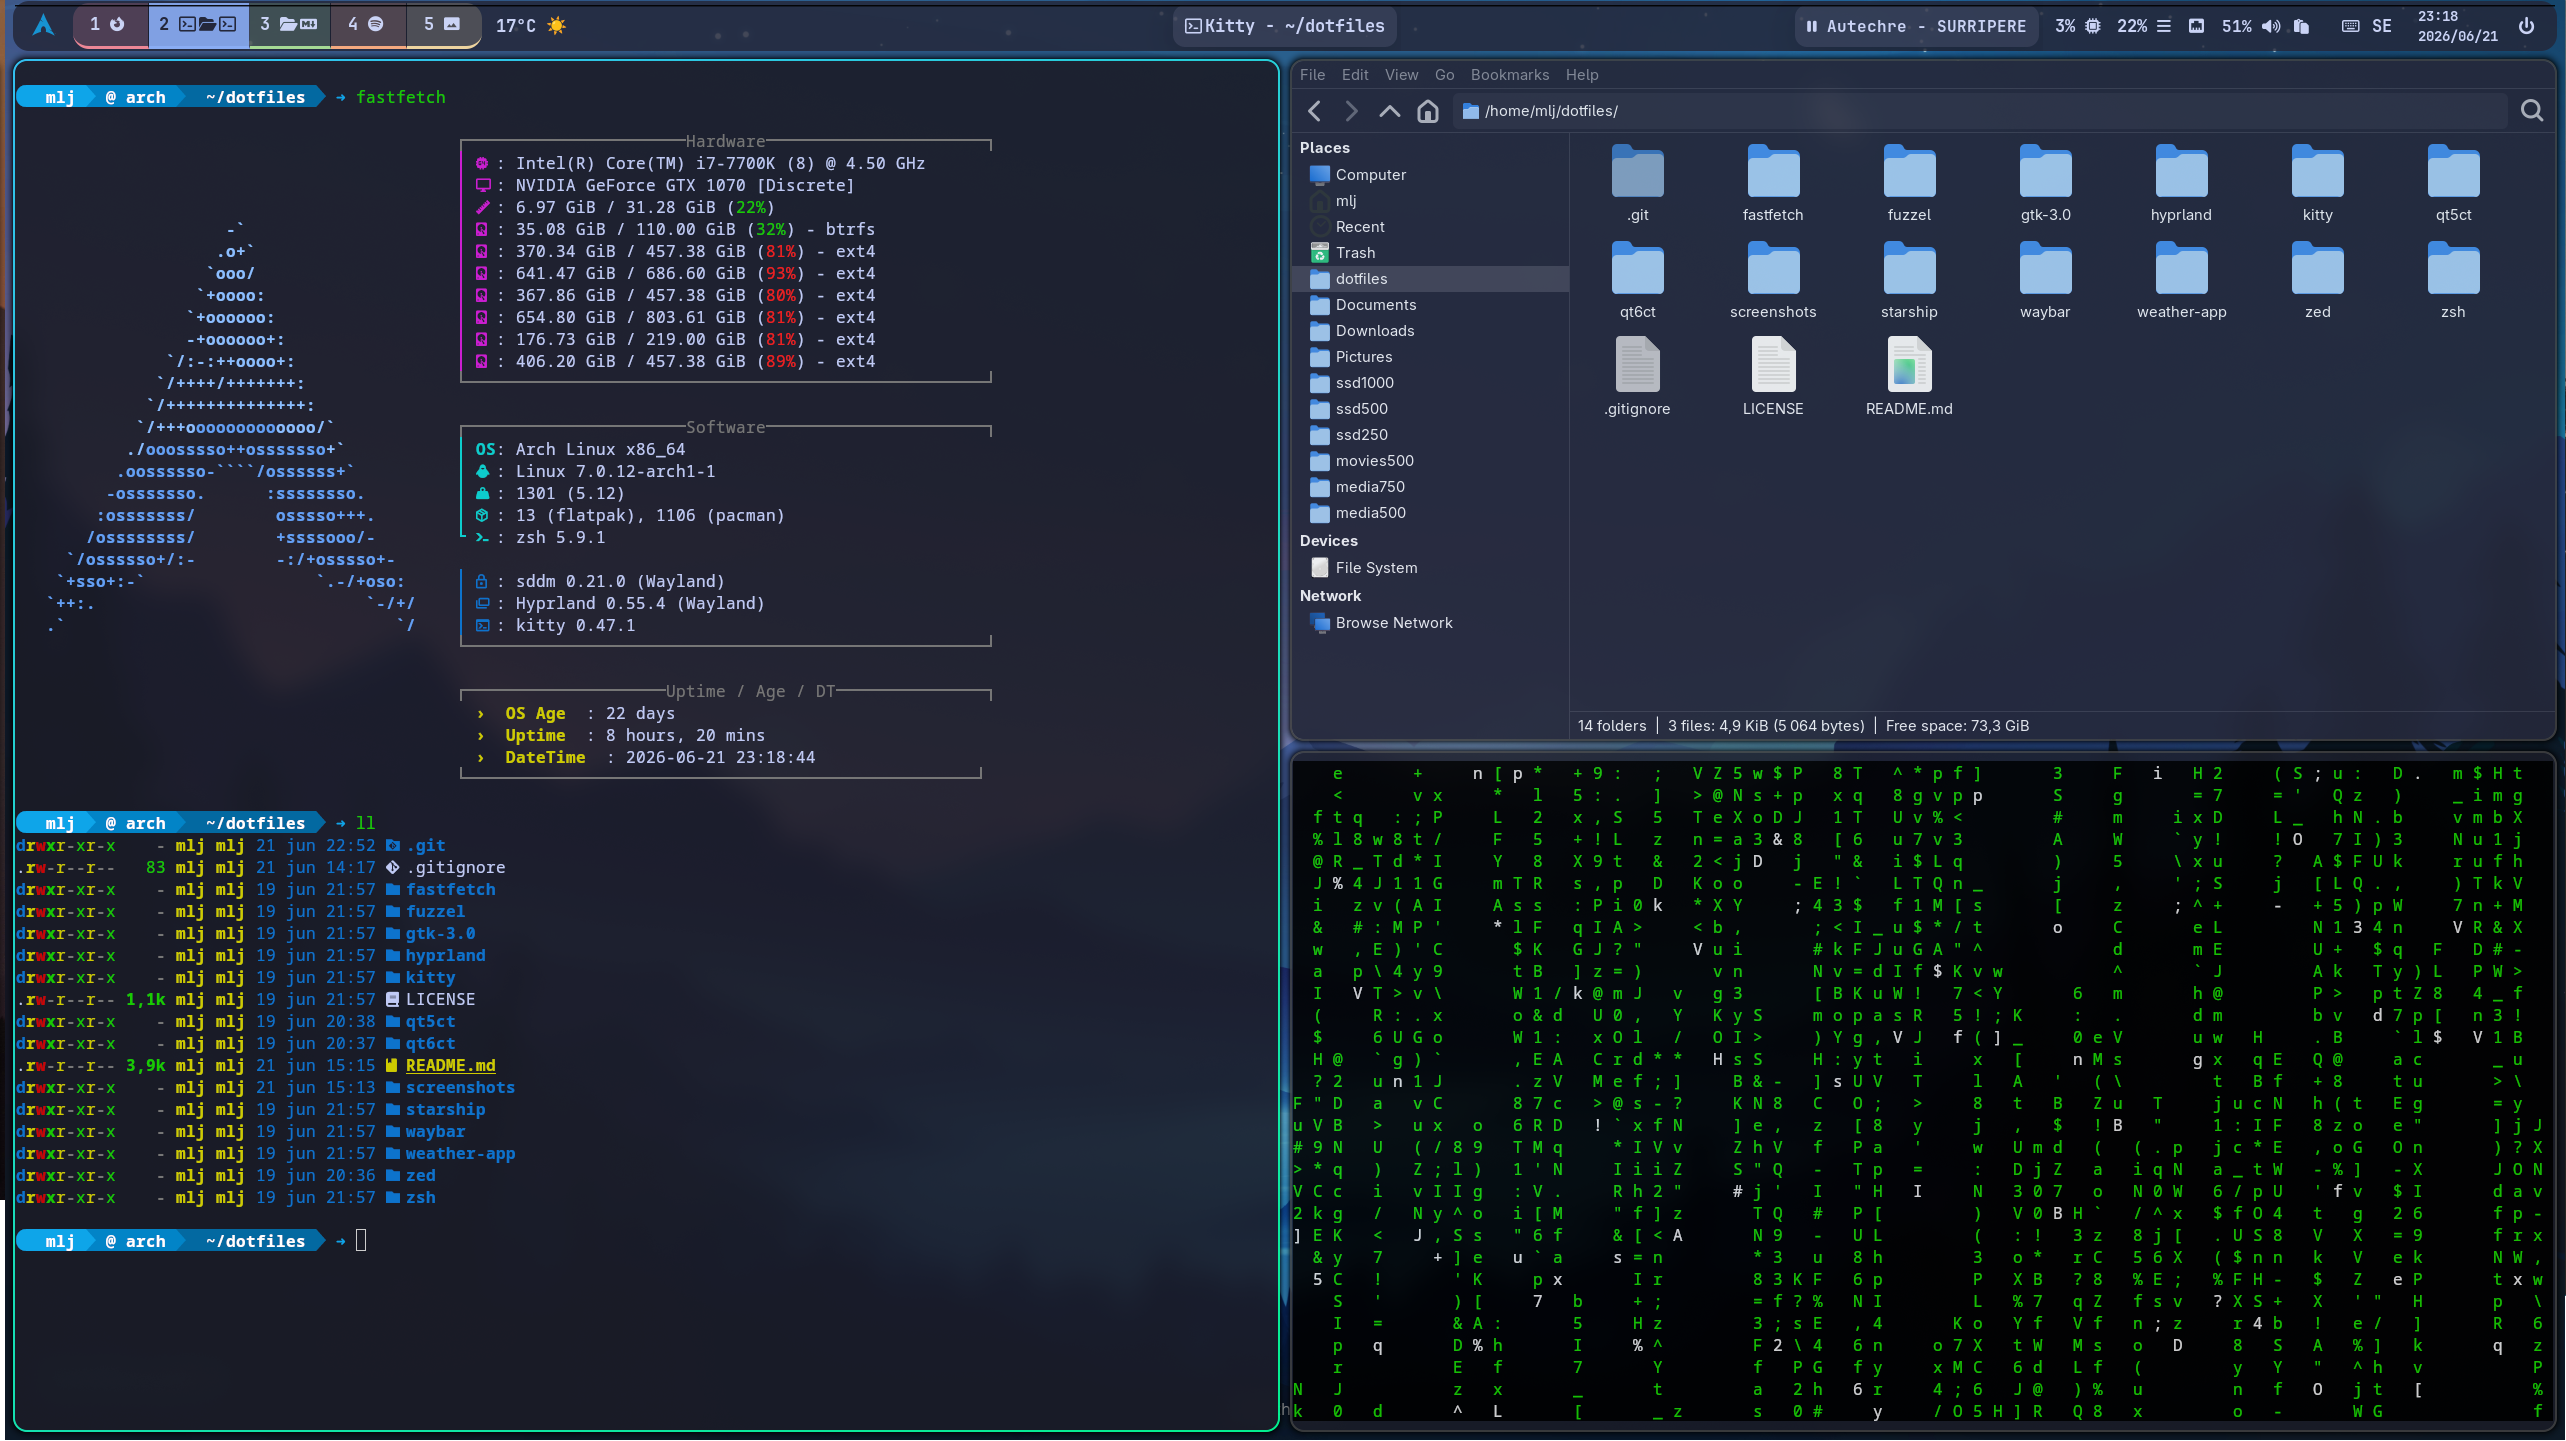
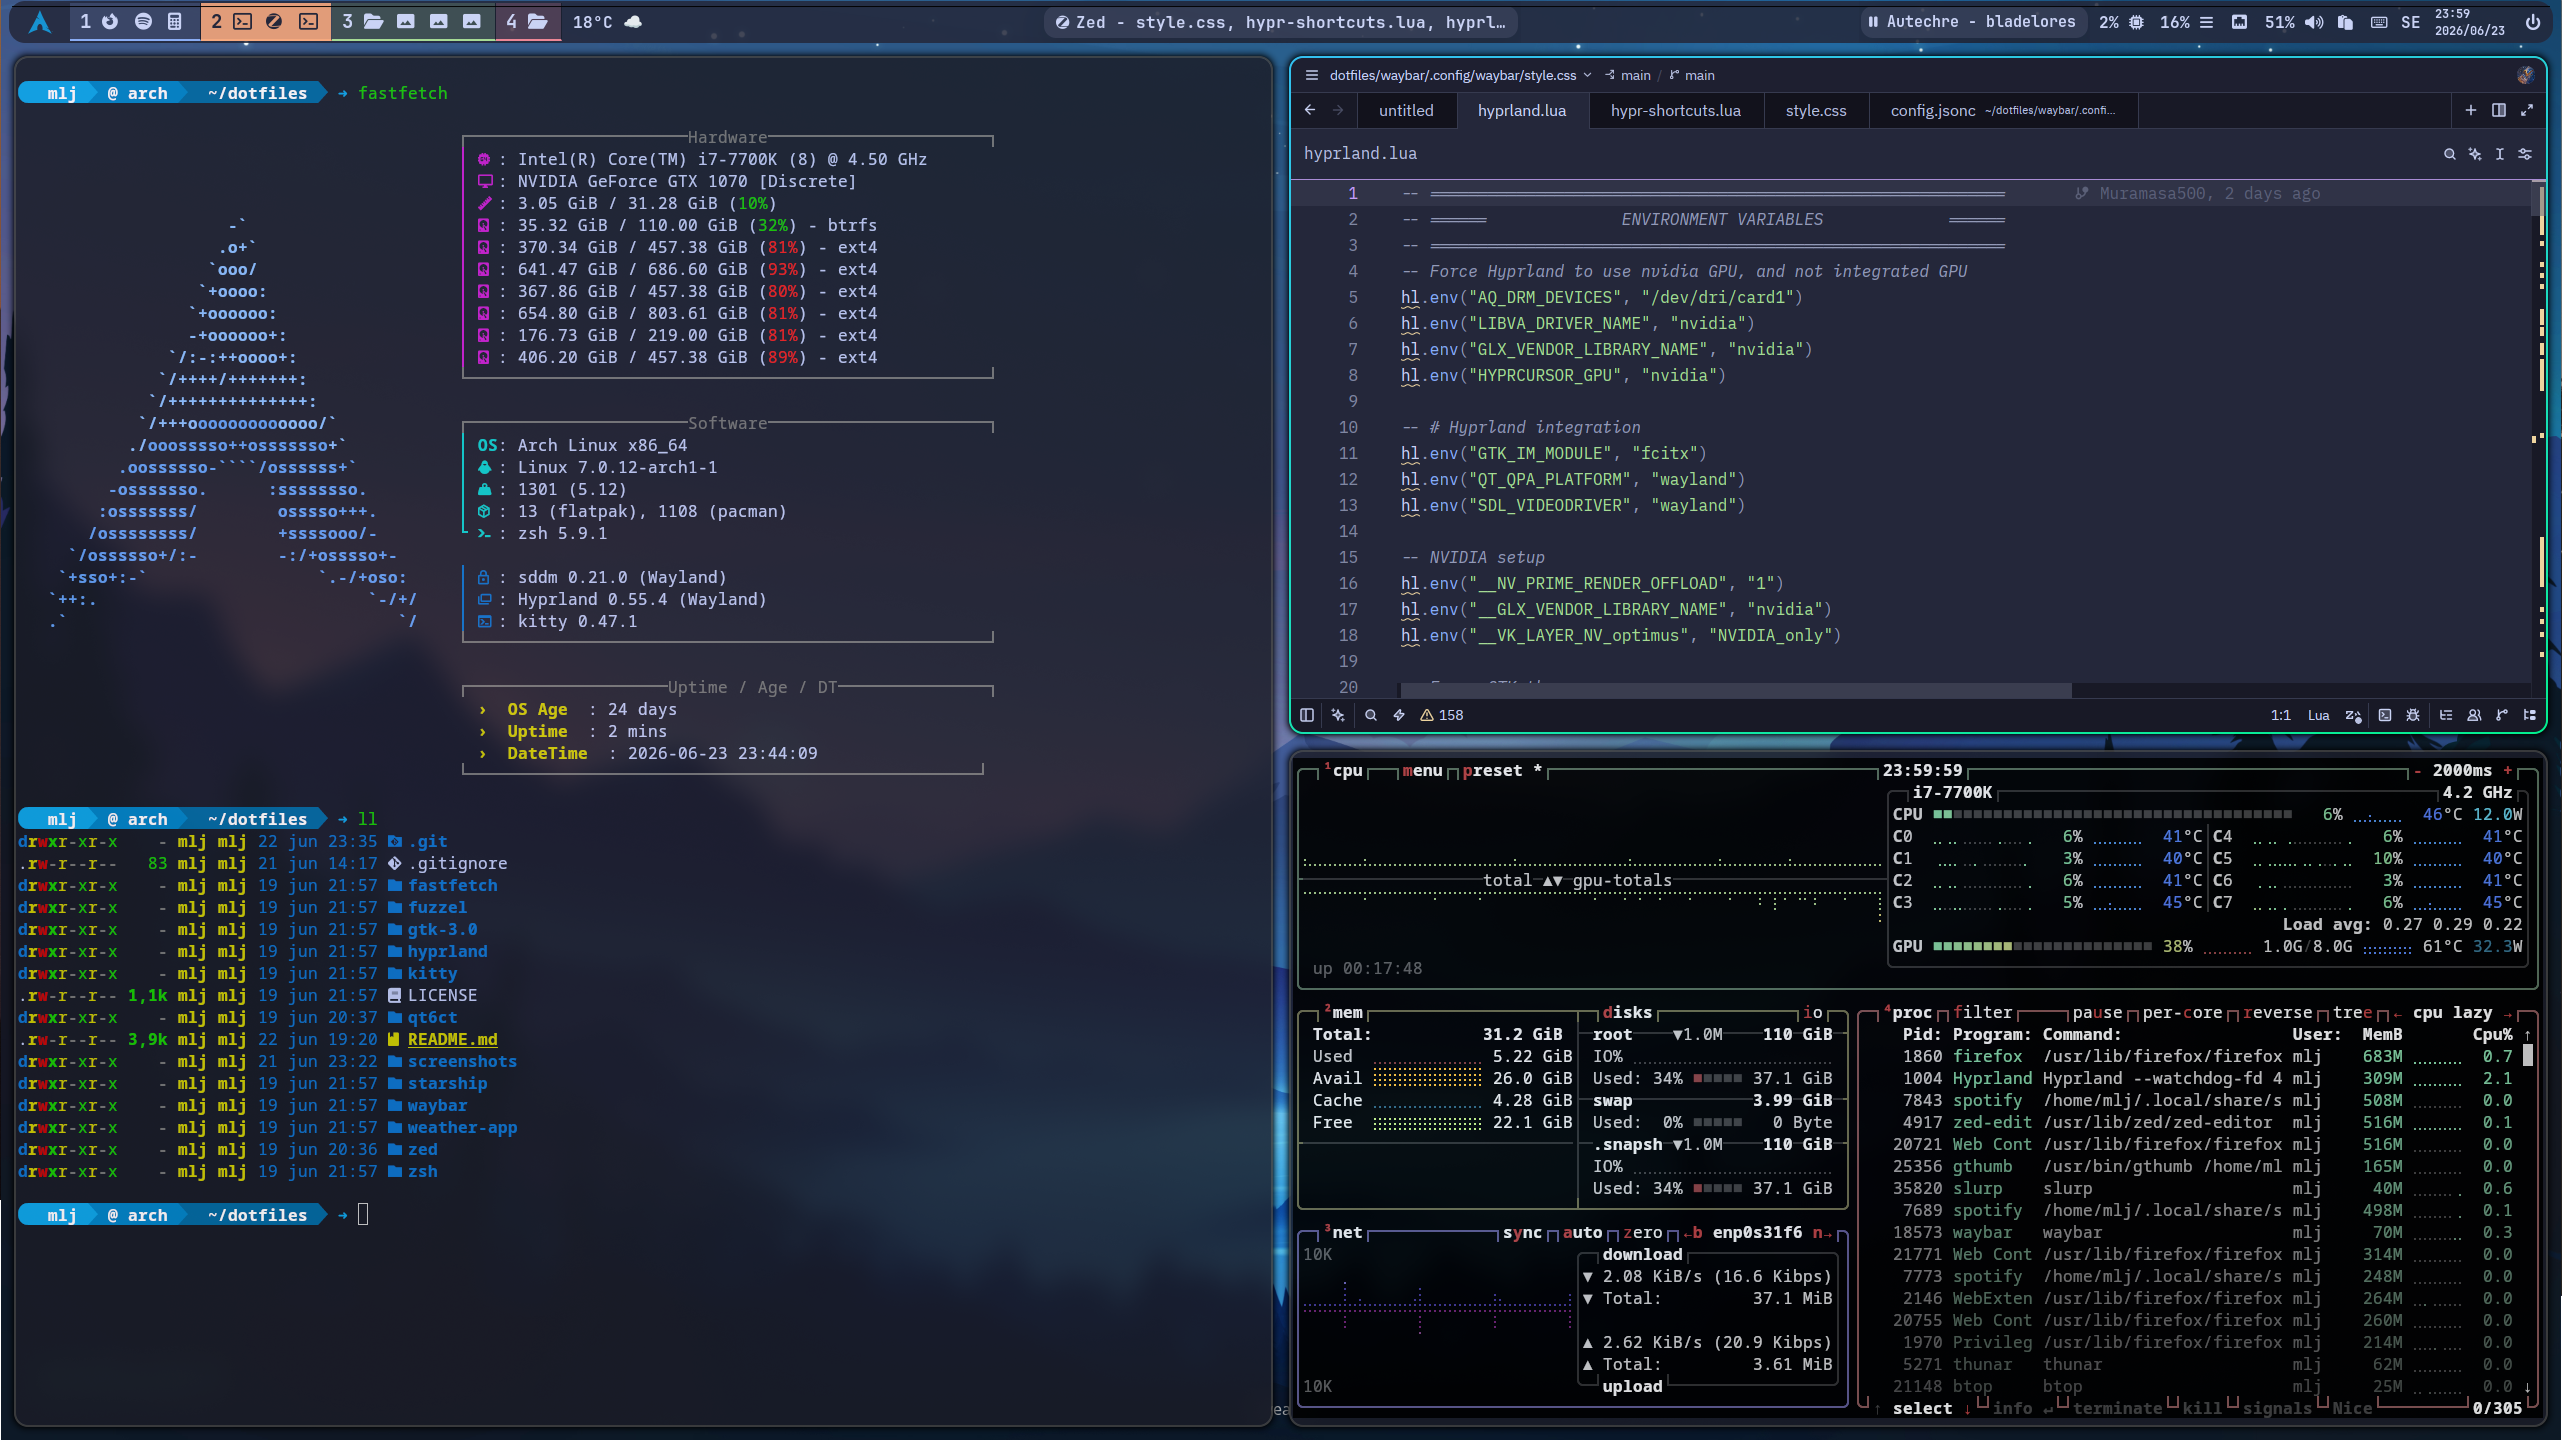
new install scripts, changed waybar design

diff --git a/waybar/.config/waybar/style.css b/waybar/.config/waybar/style.css
@@ -72,7 +72,7 @@ tooltip {
 }
 
 /* Outer rounded edges */
-#workspaces button:first-child {
+/*#workspaces button:first-child {
     border-top-left-radius: 13px;
     border-bottom-left-radius: 13px;
     border-left: none;
@@ -82,7 +82,7 @@ tooltip {
     border-top-right-radius: 13px;
     border-bottom-right-radius: 13px;
     border-right: none;
-}
+}*/
 
 #workspaces button:hover {
     background-color: rgba(60, 65, 85, 0.9);
@@ -92,14 +92,15 @@ tooltip {
 /* ======================================== */
 /* -----        INACTIVE COLORS      -----  */
 /* ======================================== */
+
 #workspaces button:nth-child(1) {
-    background-color: rgba(237, 135, 150, 0.2);
-    border-bottom: 2px solid #ed8796;
+    background-color: rgba(138, 173, 244, 0.2);
+    border-bottom: 2px solid #8aadf4;
 }
 
 #workspaces button:nth-child(2) {
-    background-color: rgba(138, 173, 244, 0.2);
-    border-bottom: 2px solid #8aadf4;
+    background-color: rgba(245, 169, 127, 0.2);
+    border-bottom: 2px solid #f5a97f;
 }
 
 #workspaces button:nth-child(3) {
@@ -108,8 +109,8 @@ tooltip {
 }
 
 #workspaces button:nth-child(4) {
-    background-color: rgba(245, 169, 127, 0.2);
-    border-bottom: 2px solid #f5a97f;
+    background-color: rgba(237, 135, 150, 0.2);
+    border-bottom: 2px solid #ed8796;
 }
 
 #workspaces button:nth-child(5) {
@@ -153,19 +154,22 @@ tooltip {
     background-color: inherit;
     opacity: 1;
 }
-
 #workspaces button.active:nth-child(1) {
-    background-color: rgba(237, 135, 150, 0.9);
-}
-#workspaces button.active:nth-child(2) {
     background-color: rgba(138, 173, 244, 0.9);
 }
+
+#workspaces button.active:nth-child(2) {
+    background-color: rgba(245, 169, 127, 0.9);
+}
+
 #workspaces button.active:nth-child(3) {
     background-color: rgba(166, 218, 149, 0.9);
 }
+
 #workspaces button.active:nth-child(4) {
-    background-color: rgba(245, 169, 127, 0.9);
+    background-color: rgba(237, 135, 150, 0.9);
 }
+
 #workspaces button.active:nth-child(5) {
     background-color: rgba(238, 212, 159, 0.9);
 }
@@ -217,7 +221,6 @@ tooltip {
 #network:hover,
 #pulseaudio:hover,
 #custom-cliphist:hover,
-#tray:hover,
 #language:hover,
 #clock:hover,
 #custom-power:hover {

diff --git a/README.md b/README.md
@@ -35,6 +35,7 @@ This repository contains my complete desktop environment configuration including
 ├── kitty/           # Kitty terminal config
 ├── qt6ct/           # qt6 config / themes
 ├── screenshots/     # Screenshots
+├── scripts/         # Custom scripts
 ├── starship/        # Starship prompt config
 ├── waybar/          # Waybar config, style.css, scripts
 ├── weather-app/     # Custom weather script + config
@@ -43,7 +44,18 @@ This repository contains my complete desktop environment configuration including
 
 ## Installation
 
-### Option 1: Using GNU Stow (Recommended)
+### Option 1: Using install.sh
+
+Run the following commands to install the dotfiles using the `install.sh` script:
+
+```bash
+git clone [email redacted]:Muramasa500/muramasa500-hyprland-dotfiles~/	dotfiles
+cd ~/dotfiles
+chmod +x install.sh
+./install.sh
+```
+
+### Option 2: Using GNU Stow (Recommended)
 
 ```bash
 git clone [email redacted]:Muramasa500/muramasa500-hyprland-dotfiles~/	dotfiles
@@ -53,7 +65,7 @@ stow fastfetch fuzzel gtk-3.0 hyprland kitty qt6ct starship waybar weather-app z
 ```
 
 
-### Option 2: Manual Setup
+### Option 3: Manual Setup
 ```bash
 cp -r fastfetch/.config/* ~/.config/
 cp -r fuzzel/.config/* ~/.config/